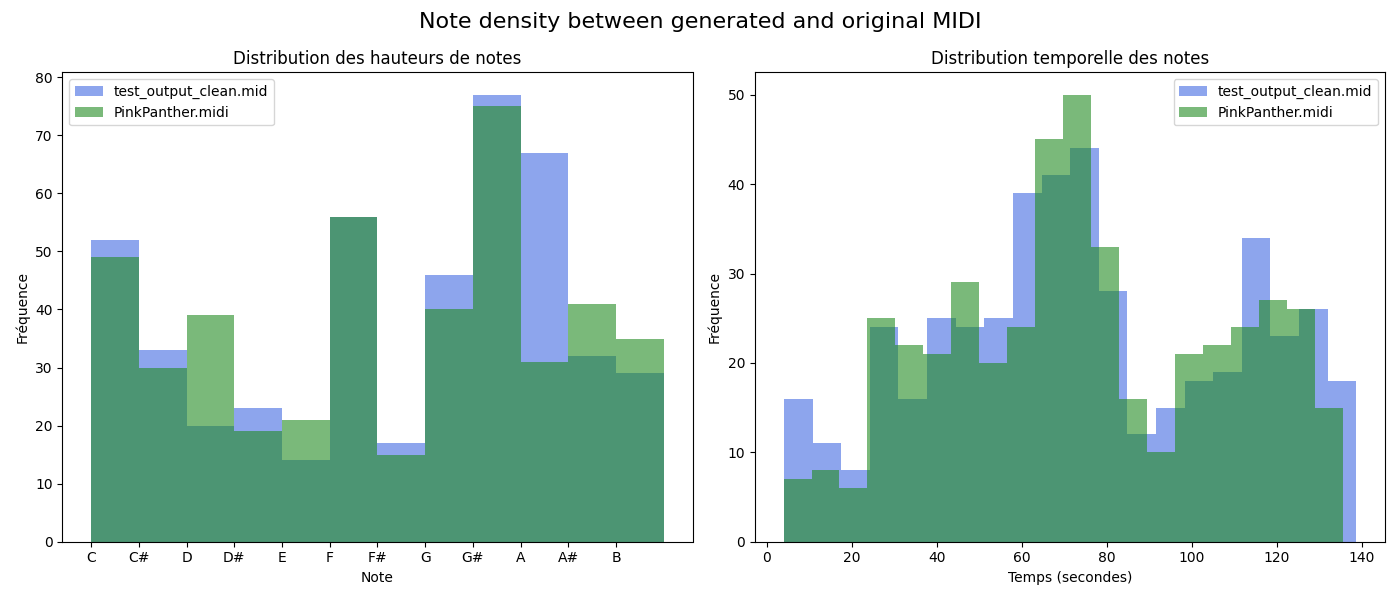
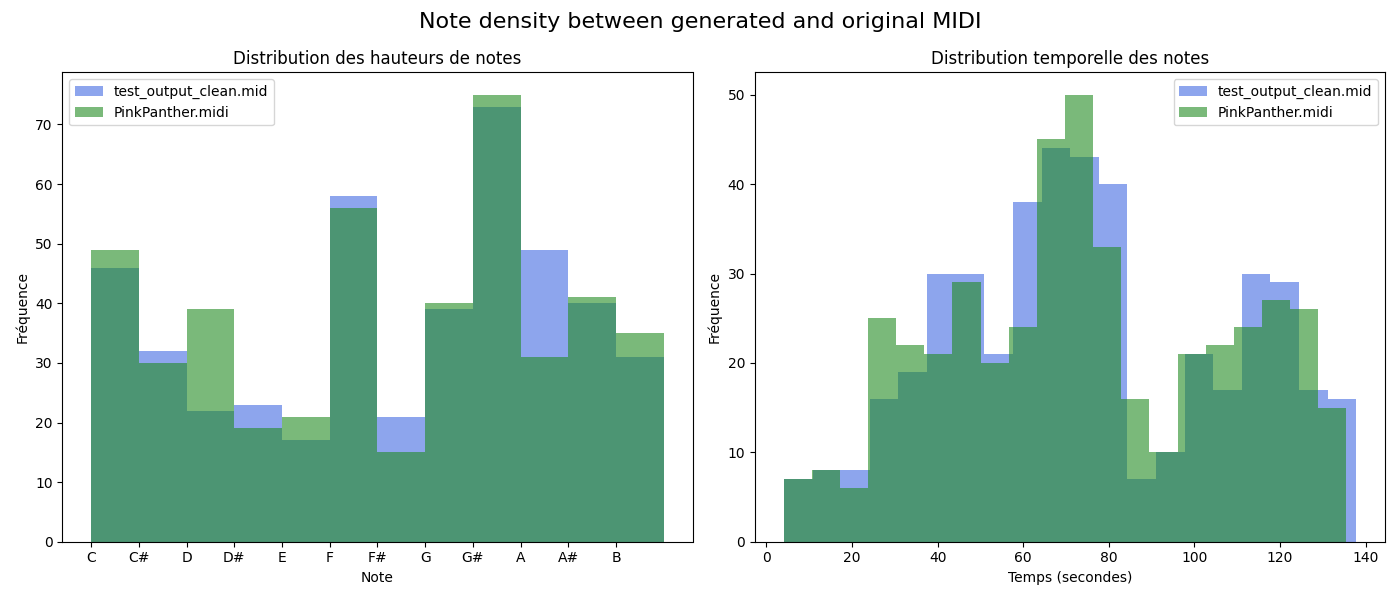
Des tests

diff --git a/src/MidiComparison.py b/src/MidiComparison.py
@@ -228,13 +228,13 @@ def extract_sequence_instruments(midi_path):
     notes = []
     for instrument in pm.instruments:
         for note in instrument.notes:
-            notes.append((note.start, note.pitch % 12, instrument.program))  # Include instrument program
+            notes.append((note.start, note.pitch % 12, instrument.program))
 
     notes.sort(key=lambda note: note[0])
 
     sorted_notes = []
     for _, pitch, program in notes:
-        sorted_notes.append((pitch, program))  # Include pitch and instrument program in the sequence
+        sorted_notes.append((pitch, program))
 
     return sorted_notes
 
@@ -269,6 +269,178 @@ def compare_midis_instruments(midi1, midi2):
     return percentage, common_length, len(seq1), len(seq2)
 
 
+""" Test de similarité rythmique entre deux fichiers MIDI """
+def extract_rhythm_sequence(midi_path):
+    pm = pretty_midi.PrettyMIDI(midi_path)
+    notes = []
+    for instrument in pm.instruments:
+        for note in instrument.notes:
+            notes.append((note.start, note.end - note.start))  # (temps de début, durée)
+
+    notes.sort(key=lambda note: note[0])
+
+    # Quantifier les durées pour simplifier la comparaison
+    durations = []
+    prev_start = notes[0][0] if notes else 0
+    for start, duration in notes:
+        # Ajouter l'intervalle entre les notes et la durée
+        durations.append((round((start - prev_start) * 4) / 4, round(duration * 4) / 4))
+        prev_start = start
+
+    return durations
+
+def compare_midis_rhythm(midi1, midi2):
+    seq1 = extract_rhythm_sequence(midi1)
+    seq2 = extract_rhythm_sequence(midi2)
+
+    # Calculer la distance d'édition entre les séquences rythmiques
+    from difflib import SequenceMatcher
+    matcher = SequenceMatcher(None, seq1, seq2)
+    similarity = matcher.ratio() * 100
+
+    return similarity
+
+
+""" Test d'analyse mélodique par intervalles entre deux fichiers MIDI """
+def extract_interval_sequence(midi_path):
+    pm = pretty_midi.PrettyMIDI(midi_path)
+    notes = []
+    for instrument in pm.instruments:
+        for note in instrument.notes:
+            notes.append((note.start, note.pitch))
+
+    notes.sort(key=lambda note: note[0])
+    pitches = [pitch for _, pitch in notes]
+
+    # Calculer les intervalles entre notes consécutives
+    intervals = []
+    for i in range(1, len(pitches)):
+        intervals.append(pitches[i] - pitches[i-1])
+
+    return intervals
+
+def compare_midis_intervals(midi1, midi2):
+    seq1 = extract_interval_sequence(midi1)
+    seq2 = extract_interval_sequence(midi2)
+
+    common_length = lcs(seq1, seq2)
+    percentage = (2 * common_length) / (len(seq1) + len(seq2)) * 100 if (len(seq1) + len(seq2)) > 0 else 0
+
+    return percentage, common_length, len(seq1), len(seq2)
+
+
+""" Visualisation par densité de notes dans deux fichiers MIDI """
+def note_density_comparison(midi1, midi2, title="Comparaison de Densité Temporelle"):
+        """
+        Crée un histogramme montrant la distribution temporelle des notes pour deux fichiers MIDI,
+        avec alignement temporel pour une comparaison directe.
+        """
+        # Extraction des données temporelles des deux fichiers
+        pitch_seq1, time_seq1, duration_seq1, _ = extract_sequence_with_details(midi1)
+        pitch_seq2, time_seq2, duration_seq2, _ = extract_sequence_with_details(midi2)
+
+        # Création d'une figure de taille adaptée
+        fig, ax = plt.subplots(figsize=(14, 8))
+
+        # Noms des fichiers pour la légende
+        file_names = [os.path.basename(midi1), os.path.basename(midi2)]
+
+        # Calcul de la durée totale pour définir l'axe x
+        start_time1 = min(time_seq1) if time_seq1 else 0
+        start_time2 = min(time_seq2) if time_seq2 else 0
+        end_time1 = max(time_seq1) if time_seq1 else 0
+        end_time2 = max(time_seq2) if time_seq2 else 0
+
+        min_start = min(start_time1, start_time2)
+        max_end = max(end_time1, end_time2)
+
+        # Définir des intervalles identiques pour les deux histogrammes pour un alignement parfait
+        n_bins = min(int(max_end - min_start) + 1, 40)  # Maximum 40 bins
+        bin_edges = [min_start + i * (max_end - min_start) / n_bins for i in range(n_bins + 1)]
+
+        # Histogramme de densité temporelle avec des couleurs distinctes
+        counts1, bins1, _ = ax.hist(time_seq1, bins=bin_edges, alpha=0.7, label=f"{file_names[0]}",
+                                   color='royalblue', edgecolor='navy', linewidth=1.2)
+        counts2, bins2, _ = ax.hist(time_seq2, bins=bin_edges, alpha=0.7, label=f"{file_names[1]}",
+                                   color='forestgreen', edgecolor='darkgreen', linewidth=1.2)
+
+        # Amélioration des étiquettes et de la présentation
+        ax.set_xlabel('Temps (secondes)', fontsize=12)
+        ax.set_ylabel('Nombre de notes par intervalle de temps', fontsize=12)
+        ax.set_title('Distribution temporelle des notes\n(Alignement temporel pour comparaison directe)', fontsize=14)
+
+        # Marquer les points de début et fin des morceaux
+        ax.axvline(x=start_time1, color='royalblue', linestyle='--', alpha=0.6)
+        ax.axvline(x=end_time1, color='royalblue', linestyle=':', alpha=0.6)
+        ax.axvline(x=start_time2, color='forestgreen', linestyle='--', alpha=0.6)
+        ax.axvline(x=end_time2, color='forestgreen', linestyle=':', alpha=0.6)
+
+        # Calcul et affichage des informations supplémentaires
+        total_time1 = end_time1 - start_time1
+        total_time2 = end_time2 - start_time2
+        avg_duration1 = sum(duration_seq1) / len(duration_seq1) if duration_seq1 else 0
+        avg_duration2 = sum(duration_seq2) / len(duration_seq2) if duration_seq2 else 0
+
+        # Calcul des densités (notes par seconde)
+        density1 = len(time_seq1) / total_time1 if total_time1 > 0 else 0
+        density2 = len(time_seq2) / total_time2 if total_time2 > 0 else 0
+
+        # Légende améliorée avec plus d'informations
+        ax.legend(labels=[
+            f"{file_names[0]} ({len(time_seq1)} notes, {density1:.1f} notes/sec)",
+            f"{file_names[1]} ({len(time_seq2)} notes, {density2:.1f} notes/sec)"
+        ], loc='upper right', fontsize=11)
+
+        # Grille en arrière-plan pour faciliter la lecture
+        ax.grid(True, linestyle='--', alpha=0.6)
+
+        # Affichage des statistiques complètes en bas du graphique
+        info_text = (
+            f"Statistiques détaillées:\n\n"
+            f"│ {file_names[0]} │ Durée: {total_time1:.2f}s │ Notes: {len(time_seq1)} │ Densité: {density1:.2f} notes/sec │ Durée moyenne: {avg_duration1:.3f}s │\n\n"
+            f"│ {file_names[1]} │ Durée: {total_time2:.2f}s │ Notes: {len(time_seq2)} │ Densité: {density2:.2f} notes/sec │ Durée moyenne: {avg_duration2:.3f}s │"
+        )
+
+        plt.figtext(0.5, 0.01, info_text, fontsize=10, ha='center',
+                   bbox=dict(boxstyle="round,pad=0.5", facecolor="white", alpha=0.8))
+
+        plt.tight_layout()
+        plt.subplots_adjust(bottom=0.2)
+
+        # Sauvegarde de l'image
+        file_name = os.path.join("media", f"densite_temporelle_{os.path.basename(midi1)}_{os.path.basename(midi2)}.png")
+        plt.savefig(file_name)
+        print(f"Analyse de densité temporelle sauvegardée sous {file_name}")
+
+        plt.show()
+
+
+""" Test prenant en compte les durées et vélocités des notes entre deux fichiers MIDI """
+def extract_detailed_sequence(midi_path):
+    pm = pretty_midi.PrettyMIDI(midi_path)
+    notes = []
+    for instrument in pm.instruments:
+        for note in instrument.notes:
+            # Inclure pitch, durée et vélocité
+            notes.append((note.start, (note.pitch % 12, round(note.end - note.start, 2), round(note.velocity / 16))))
+
+    notes.sort(key=lambda note: note[0])
+    return [features for _, features in notes]
+
+def compare_midis_detailed(midi1, midi2):
+    seq1 = extract_detailed_sequence(midi1)
+    seq2 = extract_detailed_sequence(midi2)
+
+    common = 0
+    for note1 in seq1:
+        if note1 in seq2:
+            common += 1
+            seq2.remove(note1)  # Éviter de compter deux fois
+
+    percentage = (2 * common) / (len(seq1) + len(extract_detailed_sequence(midi2))) * 100
+    return percentage, common
+
+
 
 if __name__ == "__main__":
     midi_a = os.path.join("media", "midi", "test_output_clean.mid")
@@ -279,13 +451,32 @@ if __name__ == "__main__":
     print(f"Similarity: {similarity:.2f}%")
     print(f"Common notes in the longest sequence: {lcs_len}")
     print(f"Generated sequence size: {len1}, Original sequence size: {len2}")
+    print("-------------------------\n")
 
     print("--- With Instruments ---")
     similarity_inst, lcs_len_inst, len1_inst, len2_inst = compare_midis_instruments(midi_a, midi_b)
     print(f"Similarity: {similarity_inst:.2f}%")
     print(f"Common notes in the longest sequence: {lcs_len_inst}")
     print(f"Generated sequence size: {len1_inst}, Original sequence size: {len2_inst}")
-    print("-------------------------")
+    print("-------------------------\n")
+
+    print("--- Rhythmic Similarity ---")
+    similarity_rhythm = compare_midis_rhythm(midi_a, midi_b)
+    print(f"Rhythmic similarity: {similarity_rhythm:.2f}%")
+    print("-------------------------\n")
+
+    print("--- Interval Similarity ---")
+    similarity_interval, common_intervals, len_int1, len_int2 = compare_midis_intervals(midi_a, midi_b)
+    print(f"Similarity: {similarity_interval:.2f}%")
+    print(f"Common intervals in the longest sequence: {common_intervals}")
+    print(f"Generated interval sequence size: {len_int1}, Original interval sequence size: {len_int2}")
+    print("-------------------------\n")
+
+    print("--- Note Density Analysis ---")
+    note_density_comparison(midi_a, midi_b, "Note density between generated and original MIDI")
+    print("-------------------------\n")
+
+
 
     detailed_comparison_visualizer(midi_a, midi_b, "Detailed comparison between generated and original MIDI")
     split_comparison_visualizer(midi_a, midi_b, "Detailed comparison between generated and original MIDI")
